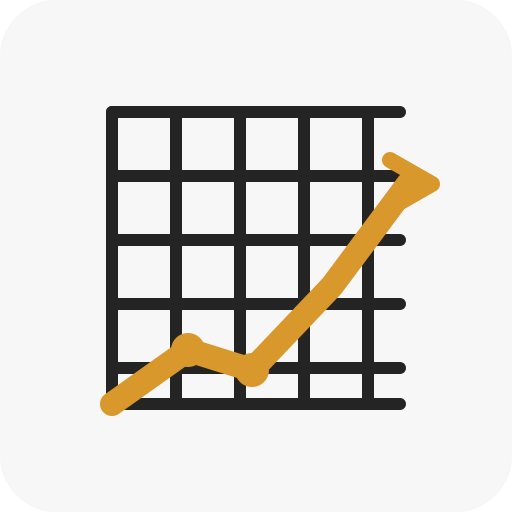
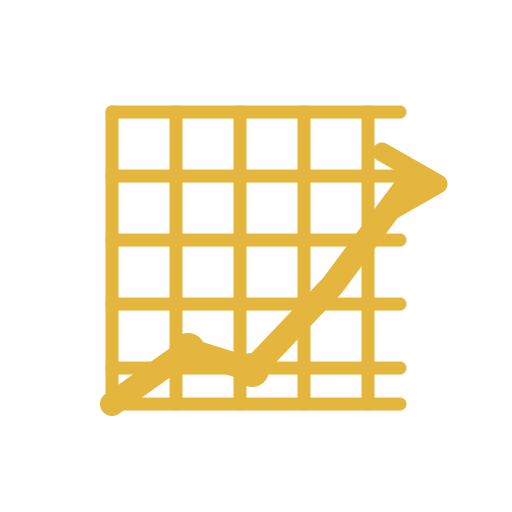
chore: finalize suite branding and copy safeguards

Changed region(s): [[0.1875, 0.1875, 0.875, 0.8125]]

diff --git a/src/components/header/NavBar.tsx b/src/components/header/NavBar.tsx
@@ -27,7 +27,7 @@ export function NavBar() {
             transition={{ duration: 0.2 }}
           >
             <Link href="/" className="flex items-center gap-3">
-              <span className="relative h-9 w-9 rounded-full bg-[#1f4d3f]/10 flex items-center justify-center">
+              <span className="relative flex h-9 w-9 items-center justify-center rounded-md bg-[#FBFAF6] ring-1 ring-[#DDD2C3]">
                 <Image
                   src="/behavior-school-icon.png"
                   alt="BehaviorSchool logo"
@@ -44,13 +44,13 @@ export function NavBar() {
             <div className="flex items-center gap-3">
               <Link
                 href="/transformation-program"
-                className="inline-flex items-center justify-center rounded-full bg-[#1f4d3f] px-5 py-2 text-sm font-semibold text-white hover:bg-[#173a2f] transition"
+                className="inline-flex min-h-11 items-center justify-center rounded-md bg-[#1f4d3f] px-5 py-2 text-sm font-semibold text-white transition hover:bg-[#123628]"
               >
                 September Cohort Open
               </Link>
               <Link
                 href="/free-bcba-practice-exam"
-                className="inline-flex items-center justify-center rounded-full border border-[#1f4d3f]/30 px-4 py-2 text-sm font-semibold text-[#1f4d3f] hover:bg-[#1f4d3f]/10 transition"
+                className="inline-flex min-h-11 items-center justify-center rounded-md border border-[#1f4d3f]/30 px-4 py-2 text-sm font-semibold text-[#1f4d3f] transition hover:bg-[#f2eee6]"
               >
                 Free BCBA Exam
               </Link>

diff --git a/src/app/globals.css b/src/app/globals.css
@@ -58,25 +58,25 @@
     --bs-section-even-alt: #FAFAFA; /* Very light grey alternative */
     
     /* Behavior School Brand Colors */
-    --bs-primary: #1E3A34;        /* Chalkboard green */
-    --bs-primary-dark: #152825;   /* Darker chalkboard green */
-    --bs-accent: #E3B23C;         /* Vintage golden yellow */
-    --bs-background: #FAF3E0;     /* Cream paper (body default) */
-    --bs-text: #1A1A1A;           /* Primary text color */
-    --bs-text-light: #6B7280;     /* Secondary text color */
+    --bs-primary: #1F4D3F;
+    --bs-primary-dark: #123628;
+    --bs-accent: #E4B63D;
+    --bs-background: #FBFAF6;
+    --bs-text: #171F1D;
+    --bs-text-light: #5C5449;
 
     /* 2026 Chalkboard Palette */
-    --bs-chalk-dark: #1a3d2e;
-    --bs-chalk-mid: #2d5a3d;
-    --bs-parchment: #FAF3E0;
-    --bs-parchment-mid: #F0E6CE;
-    --bs-parchment-deep: #E8DCC0;
-    --bs-gold: #C8901A;
-    --bs-gold-light: #E8B84B;
-    --bs-ink: #1C1C1A;
-    --bs-ink-mid: #4A4A45;
-    --bs-ink-light: #7A7A72;
-    --bs-border: #D8D0BC;
+    --bs-chalk-dark: #0B3528;
+    --bs-chalk-mid: #1F4D3F;
+    --bs-parchment: #FBFAF6;
+    --bs-parchment-mid: #F2EEE6;
+    --bs-parchment-deep: #DDD2C3;
+    --bs-gold: #E4B63D;
+    --bs-gold-light: #F0CC69;
+    --bs-ink: #171F1D;
+    --bs-ink-mid: #5C5449;
+    --bs-ink-light: #7C756B;
+    --bs-border: #DDD2C3;
     
     /* Behavior Study Tools variables */
     --quiz-background: #FAFBFC;

diff --git a/src/components/ui/time-delay-popup.tsx b/src/components/ui/time-delay-popup.tsx
@@ -14,7 +14,7 @@ interface TimeDelayPopupProps {
 }
 
 export function TimeDelayPopup({
-  title = "Join 5,000+ School BCBAs Getting Weekly Tips",
+  title = "Get weekly school BCBA resources",
   description = "Get evidence-based strategies, IEP tools, and behavior support ideas delivered every week. Free resources to help you work smarter, not harder.",
   pageSource,
   buttonText = "Subscribe to Weekly Tips",

diff --git a/src/app/the-act-matrix-a-framework-for-school-based-bcbas/page.tsx b/src/app/the-act-matrix-a-framework-for-school-based-bcbas/page.tsx
@@ -495,7 +495,7 @@ export default function ACTMatrixFrameworkPage() {
               </div>
 
               <p className="text-center text-sm text-emerald-100">
-                Join 1,000+ school-based BCBAs already using these evidence-based approaches
+                Explore practical school-based resources grounded in behavior science.
               </p>
             </div>
 

diff --git a/Docs/BRAND_SYSTEM.md b/Docs/BRAND_SYSTEM.md
@@ -1,0 +1,44 @@
+# BehaviorSchool Brand System
+
+This is the shared public-facing visual contract for the BehaviorSchool suite.
+
+## Product hierarchy
+
+- Parent brand: `BehaviorSchool`
+- Exam preparation product: `Behavior Study Tools`
+- Supervision product: `Behavior Study Tools / Supervision`
+- Continuing education product: `BehaviorSchool / Learning`
+
+## Shared tokens
+
+| Token | Value | Use |
+| --- | --- | --- |
+| Deep green | `#0B3528` | dark surfaces and footer |
+| Primary green | `#1F4D3F` | primary actions and links |
+| Interactive green | `#123628` | hover and focused dark surfaces |
+| Gold | `#E4B63D` | emphasis and selected states |
+| Parchment | `#FBFAF6` | page background |
+| Surface | `#FFFEFA` | content surfaces |
+| Ink | `#171F1D` | primary text |
+| Secondary text | `#5C5449` | supporting text |
+| Border | `#DDD2C3` | dividers and controls |
+
+## Component rules
+
+- Use one primary action per public header.
+- Keep public headers 64px on desktop and 56-64px on mobile.
+- Use 44px minimum touch targets and 6px control radii.
+- Use rounded corners for controls and media frames, not pills for ordinary actions.
+- Use serif display type for marketing headlines and neutral sans-serif type for UI and body text.
+- Do not add testimonials, reviews, outcome statistics, usage numbers, named customers, case studies, or other social-proof claims without a verified source and explicit approval.
+
+## Product imagery rules
+
+Only ship screenshots or product shots that are approved for public use. Remove or replace names, scores, percentages, improvement claims, and other data that could be mistaken for real customer outcomes unless their provenance is documented.
+
+## Approved marks
+
+- BehaviorSchool uses the graph-grid mark with an ascending gold data line.
+- Behavior Study Tools uses the open-book mark with the same ascending gold data line.
+- Supervision inherits the Behavior Study Tools mark; Learning inherits the BehaviorSchool mark.
+- Keep marks on transparent backgrounds when they are placed inside a site header or on a colored surface. Do not substitute decorative rules, abstract line fragments, exploratory icons, or unapproved slogans for a product mark.
